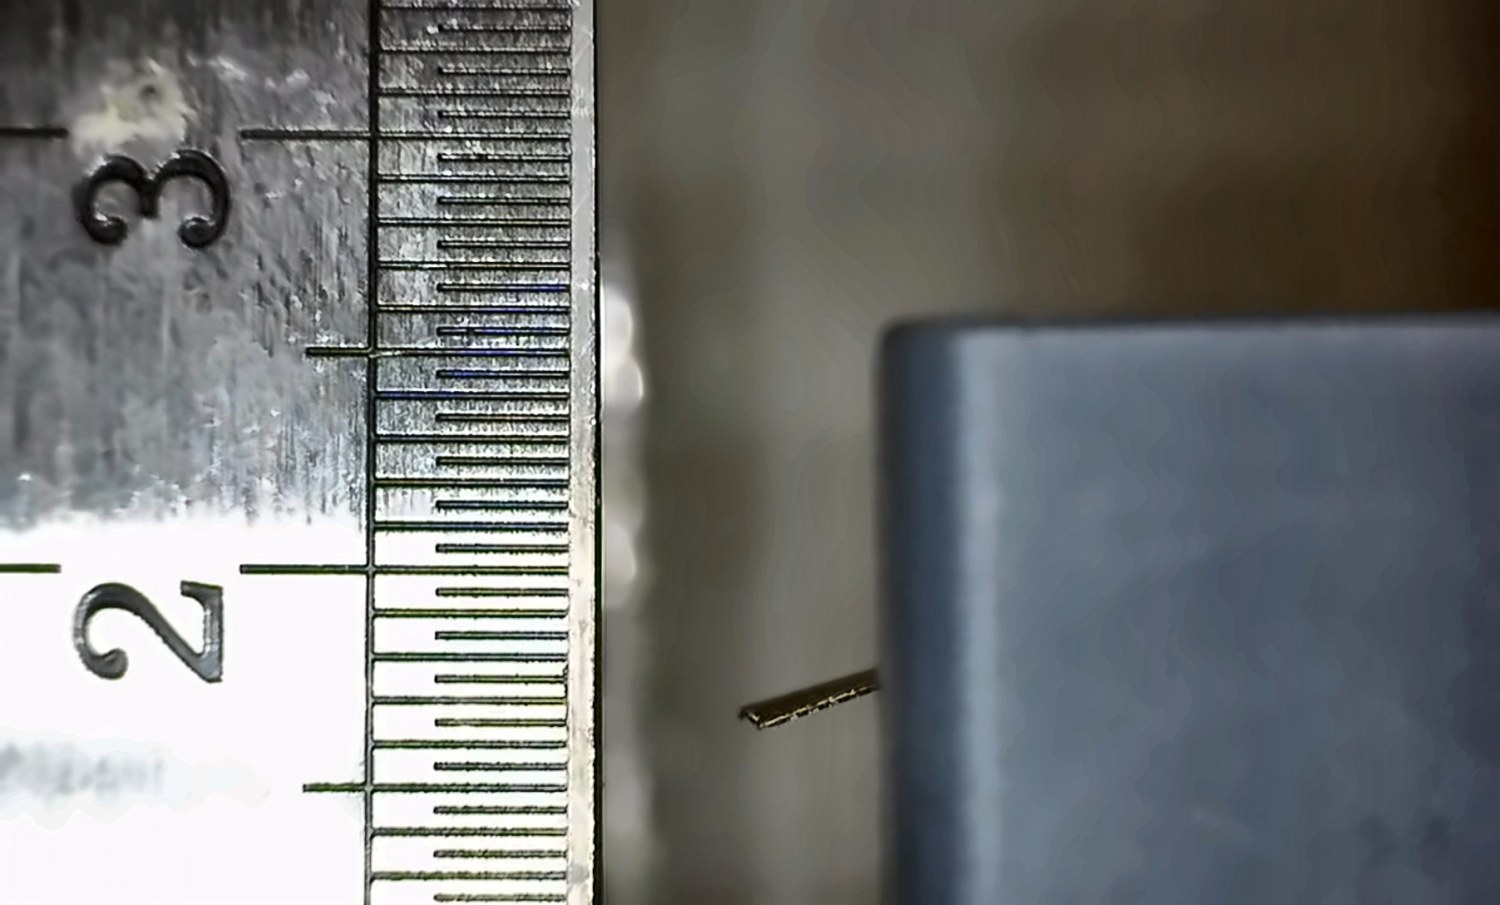
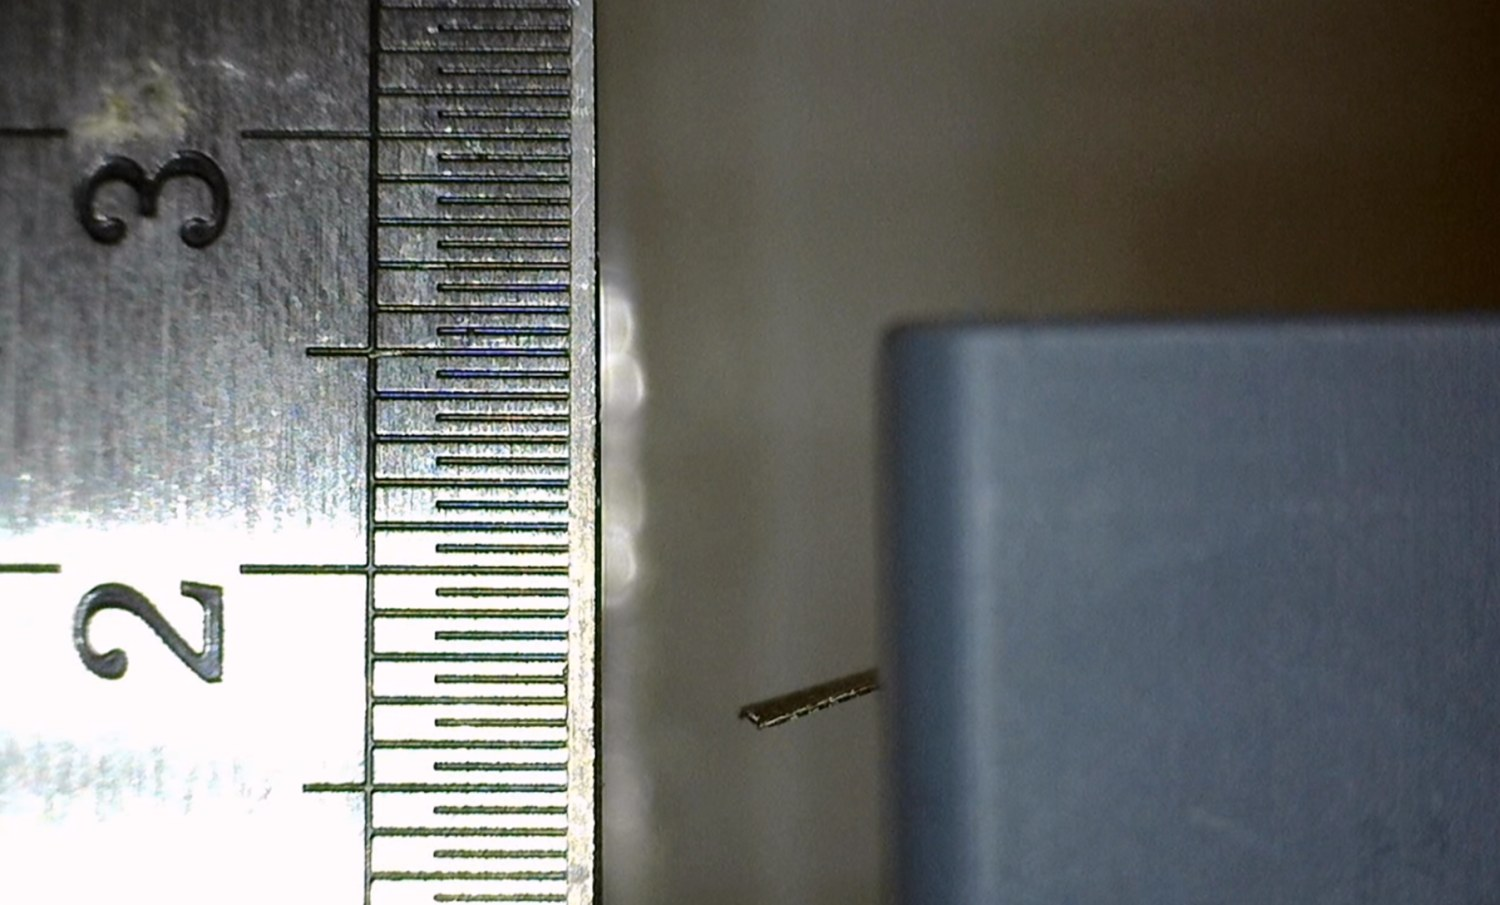
Gentler touch-up for the gel macro photo
Denoising smeared the brushed-metal texture of the scale, so the recipe is
now 2x EDSR, a partial white-balance correction and light sharpening.

Claude-Session: https://claude.ai/code/session_01H34n291vHUsQHTWP9TfPyQ

diff --git a/tools/touch_up_images.py b/tools/touch_up_images.py
@@ -99,10 +99,9 @@ def recipes(sr):
     def phone_photo(src):   # light denoise, a little local contrast, sharpening
         return lambda: save_jpg(unsharp(local_contrast(denoise(load(src), h=3), clip=1.25), amount=0.45), src, 88)
 
-    def gel():   # remove the green cast, denoise, 2x EDSR, then local contrast
-        img = denoise(gray_world(load("image_05119d.png"), strength=0.7), h=5)
-        img = unsharp(local_contrast(sr().upsample(img), clip=1.4), sigma=1.4, amount=0.45)
-        save_jpg(resize_width(img, 1500), "gel_cantilever.jpg", 88)
+    def gel():   # 2x EDSR, then take out most of the green cast; no denoise, it smears the brushed metal
+        img = gray_world(sr().upsample(load("image_05119d.png")), strength=0.6)
+        save_jpg(resize_width(unsharp(img, sigma=1.2, amount=0.35), 1500), "gel_cantilever.jpg", 88)
 
     def force():   # screenshot of the MATLAB plots: 2x EDSR so lines and labels are crisper
         save_png(unsharp(sr().upsample(load("image_05153e.png")), sigma=1.0, amount=0.35), "force_vs_time.png")
